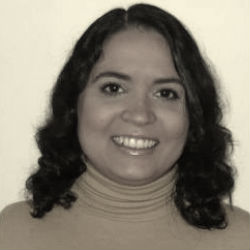
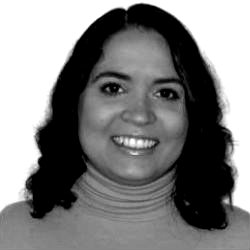
Improve speakers pictures

diff --git a/src/index.html b/src/index.html
@@ -336,7 +336,7 @@
                 </div>
                 <div class="dib mb4 v-top w-100 w-50-m w-33-l">
                     <div class="pa3">
-                        <img data-aload="assets/images/speakers/nicolas-germen.jpeg" alt="Nicolas Germen" class="db shadow-left w-50">
+                        <img data-aload="assets/images/speakers/nicolas-germen.jpg" alt="Nicolas Germen" class="db shadow-left w-50">
                         <h3 class="f4 mb3 mt4 ttu">
                             <a href="https://twitter.com/nomadesba" target="_blank" class="b dib purple no-underline">
                                 <span class="icon-twitter light-purple mr2"></span>
